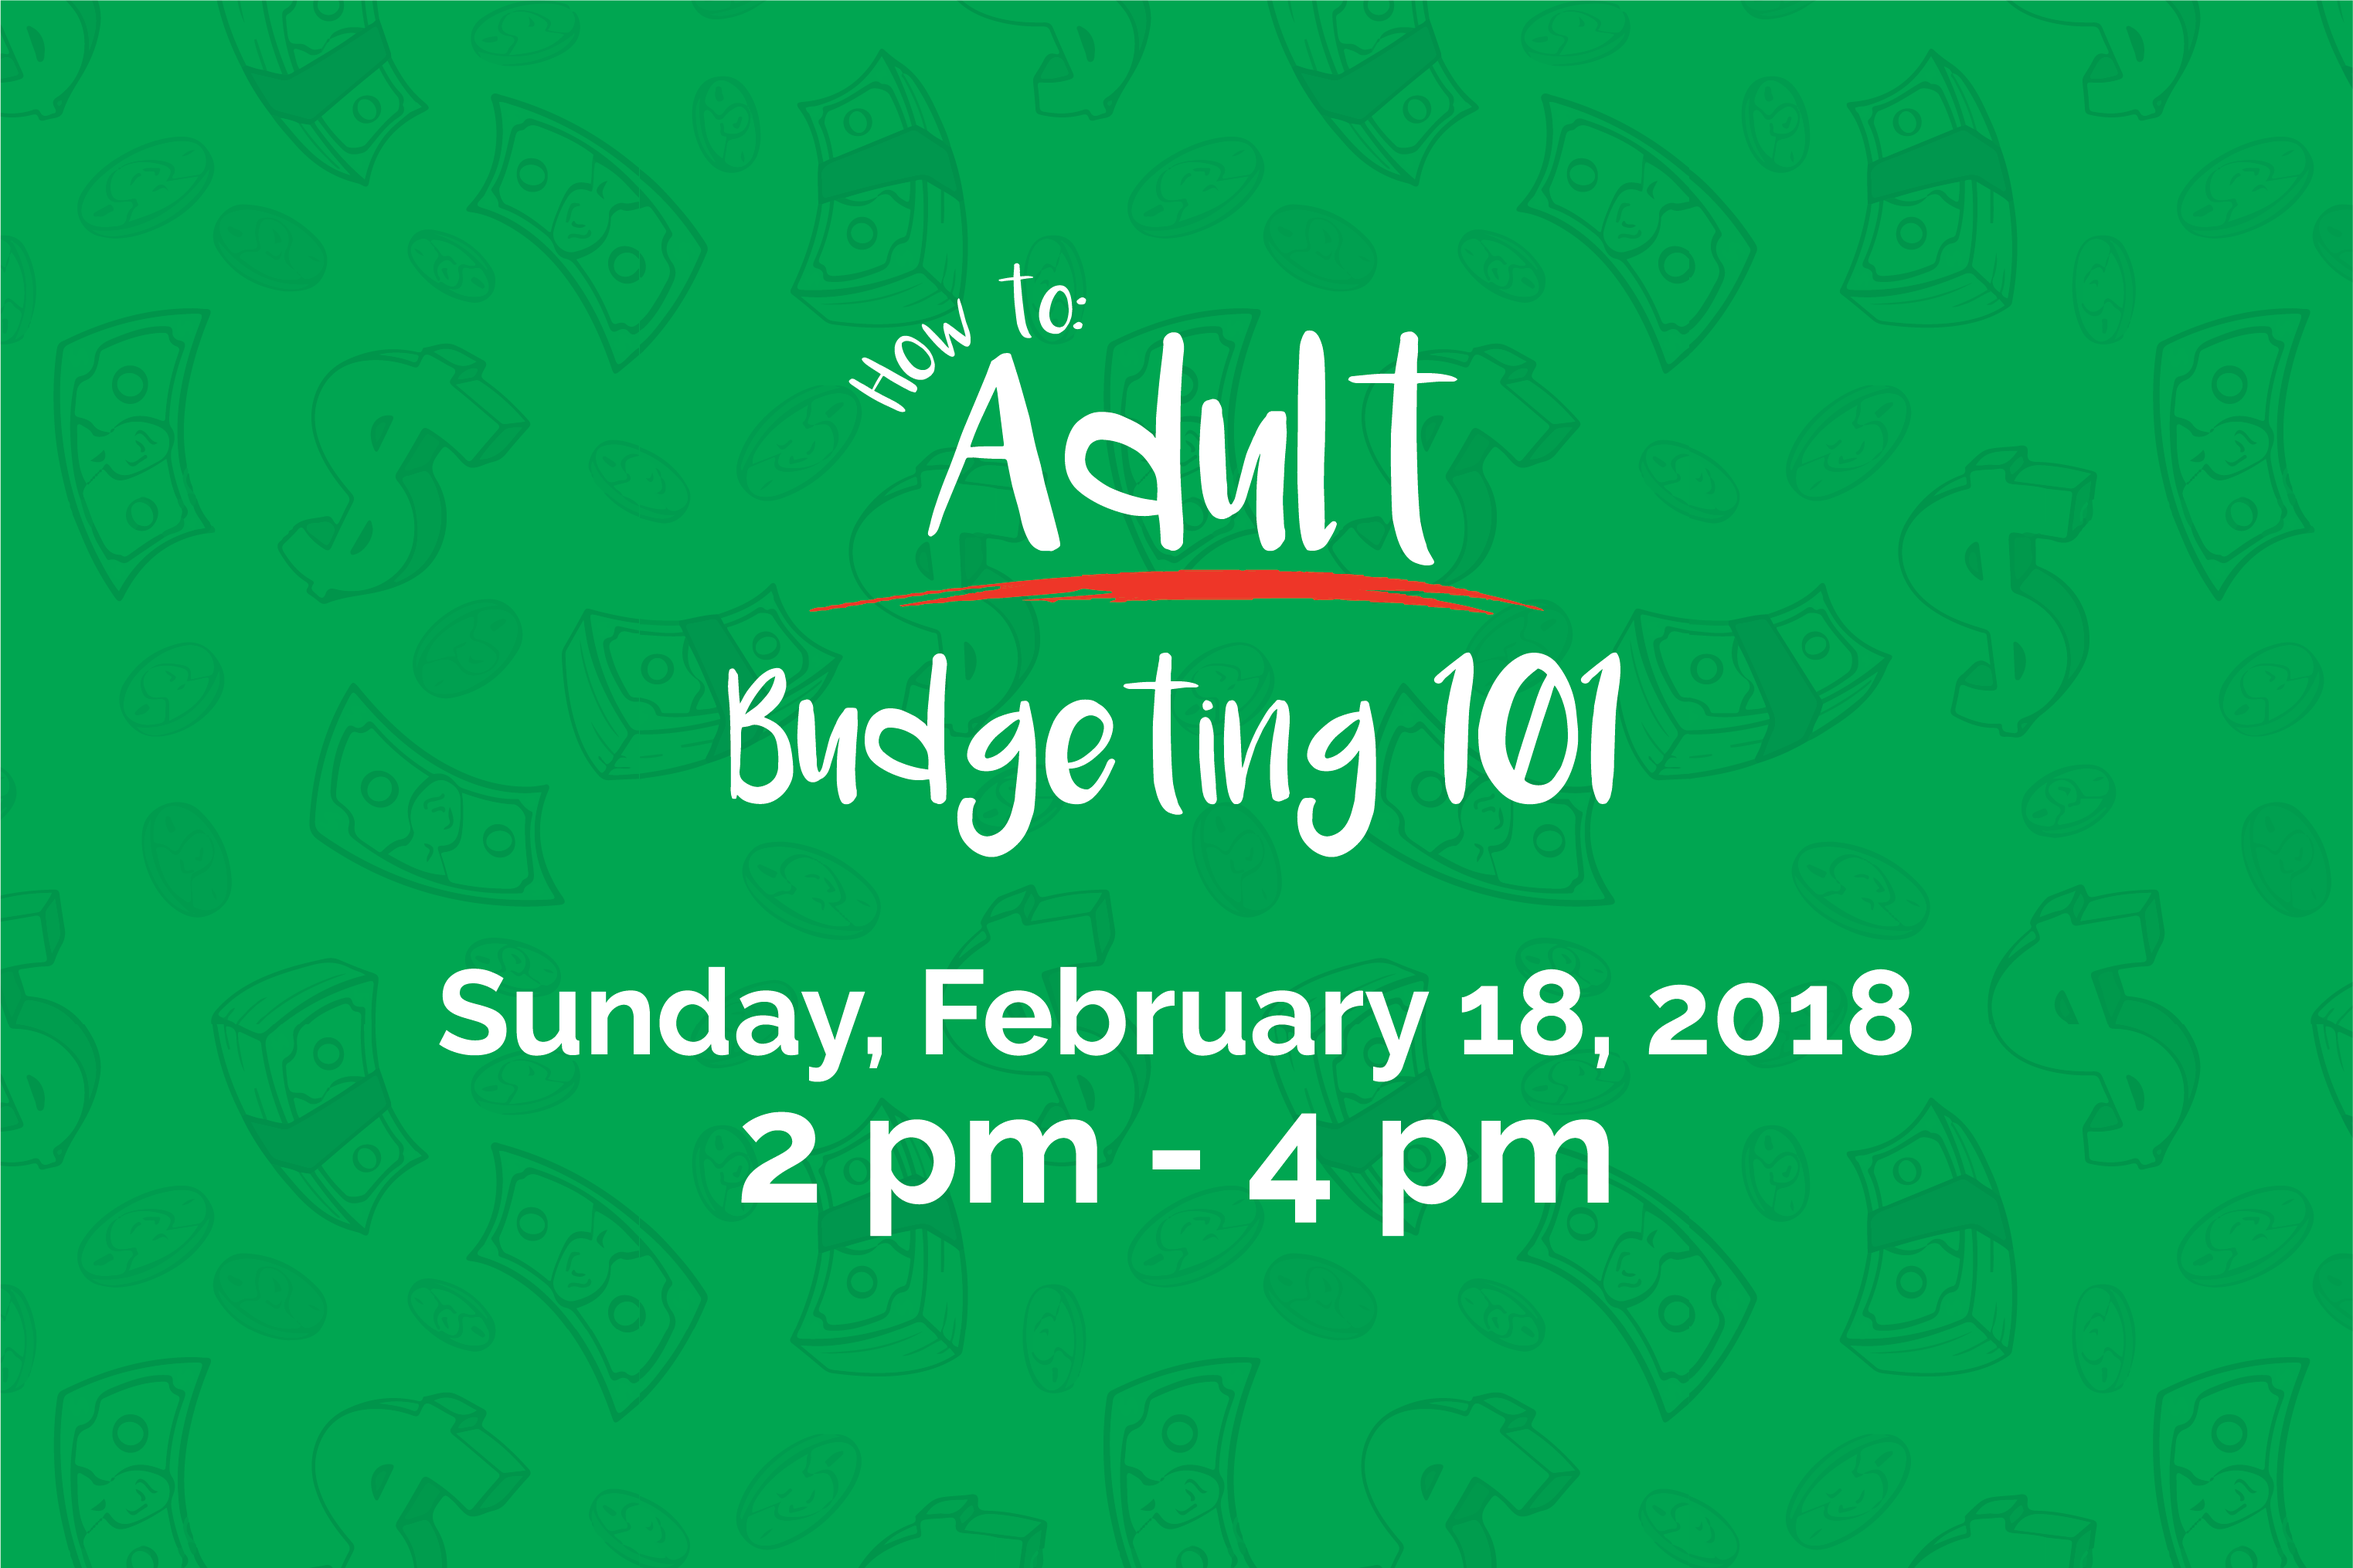
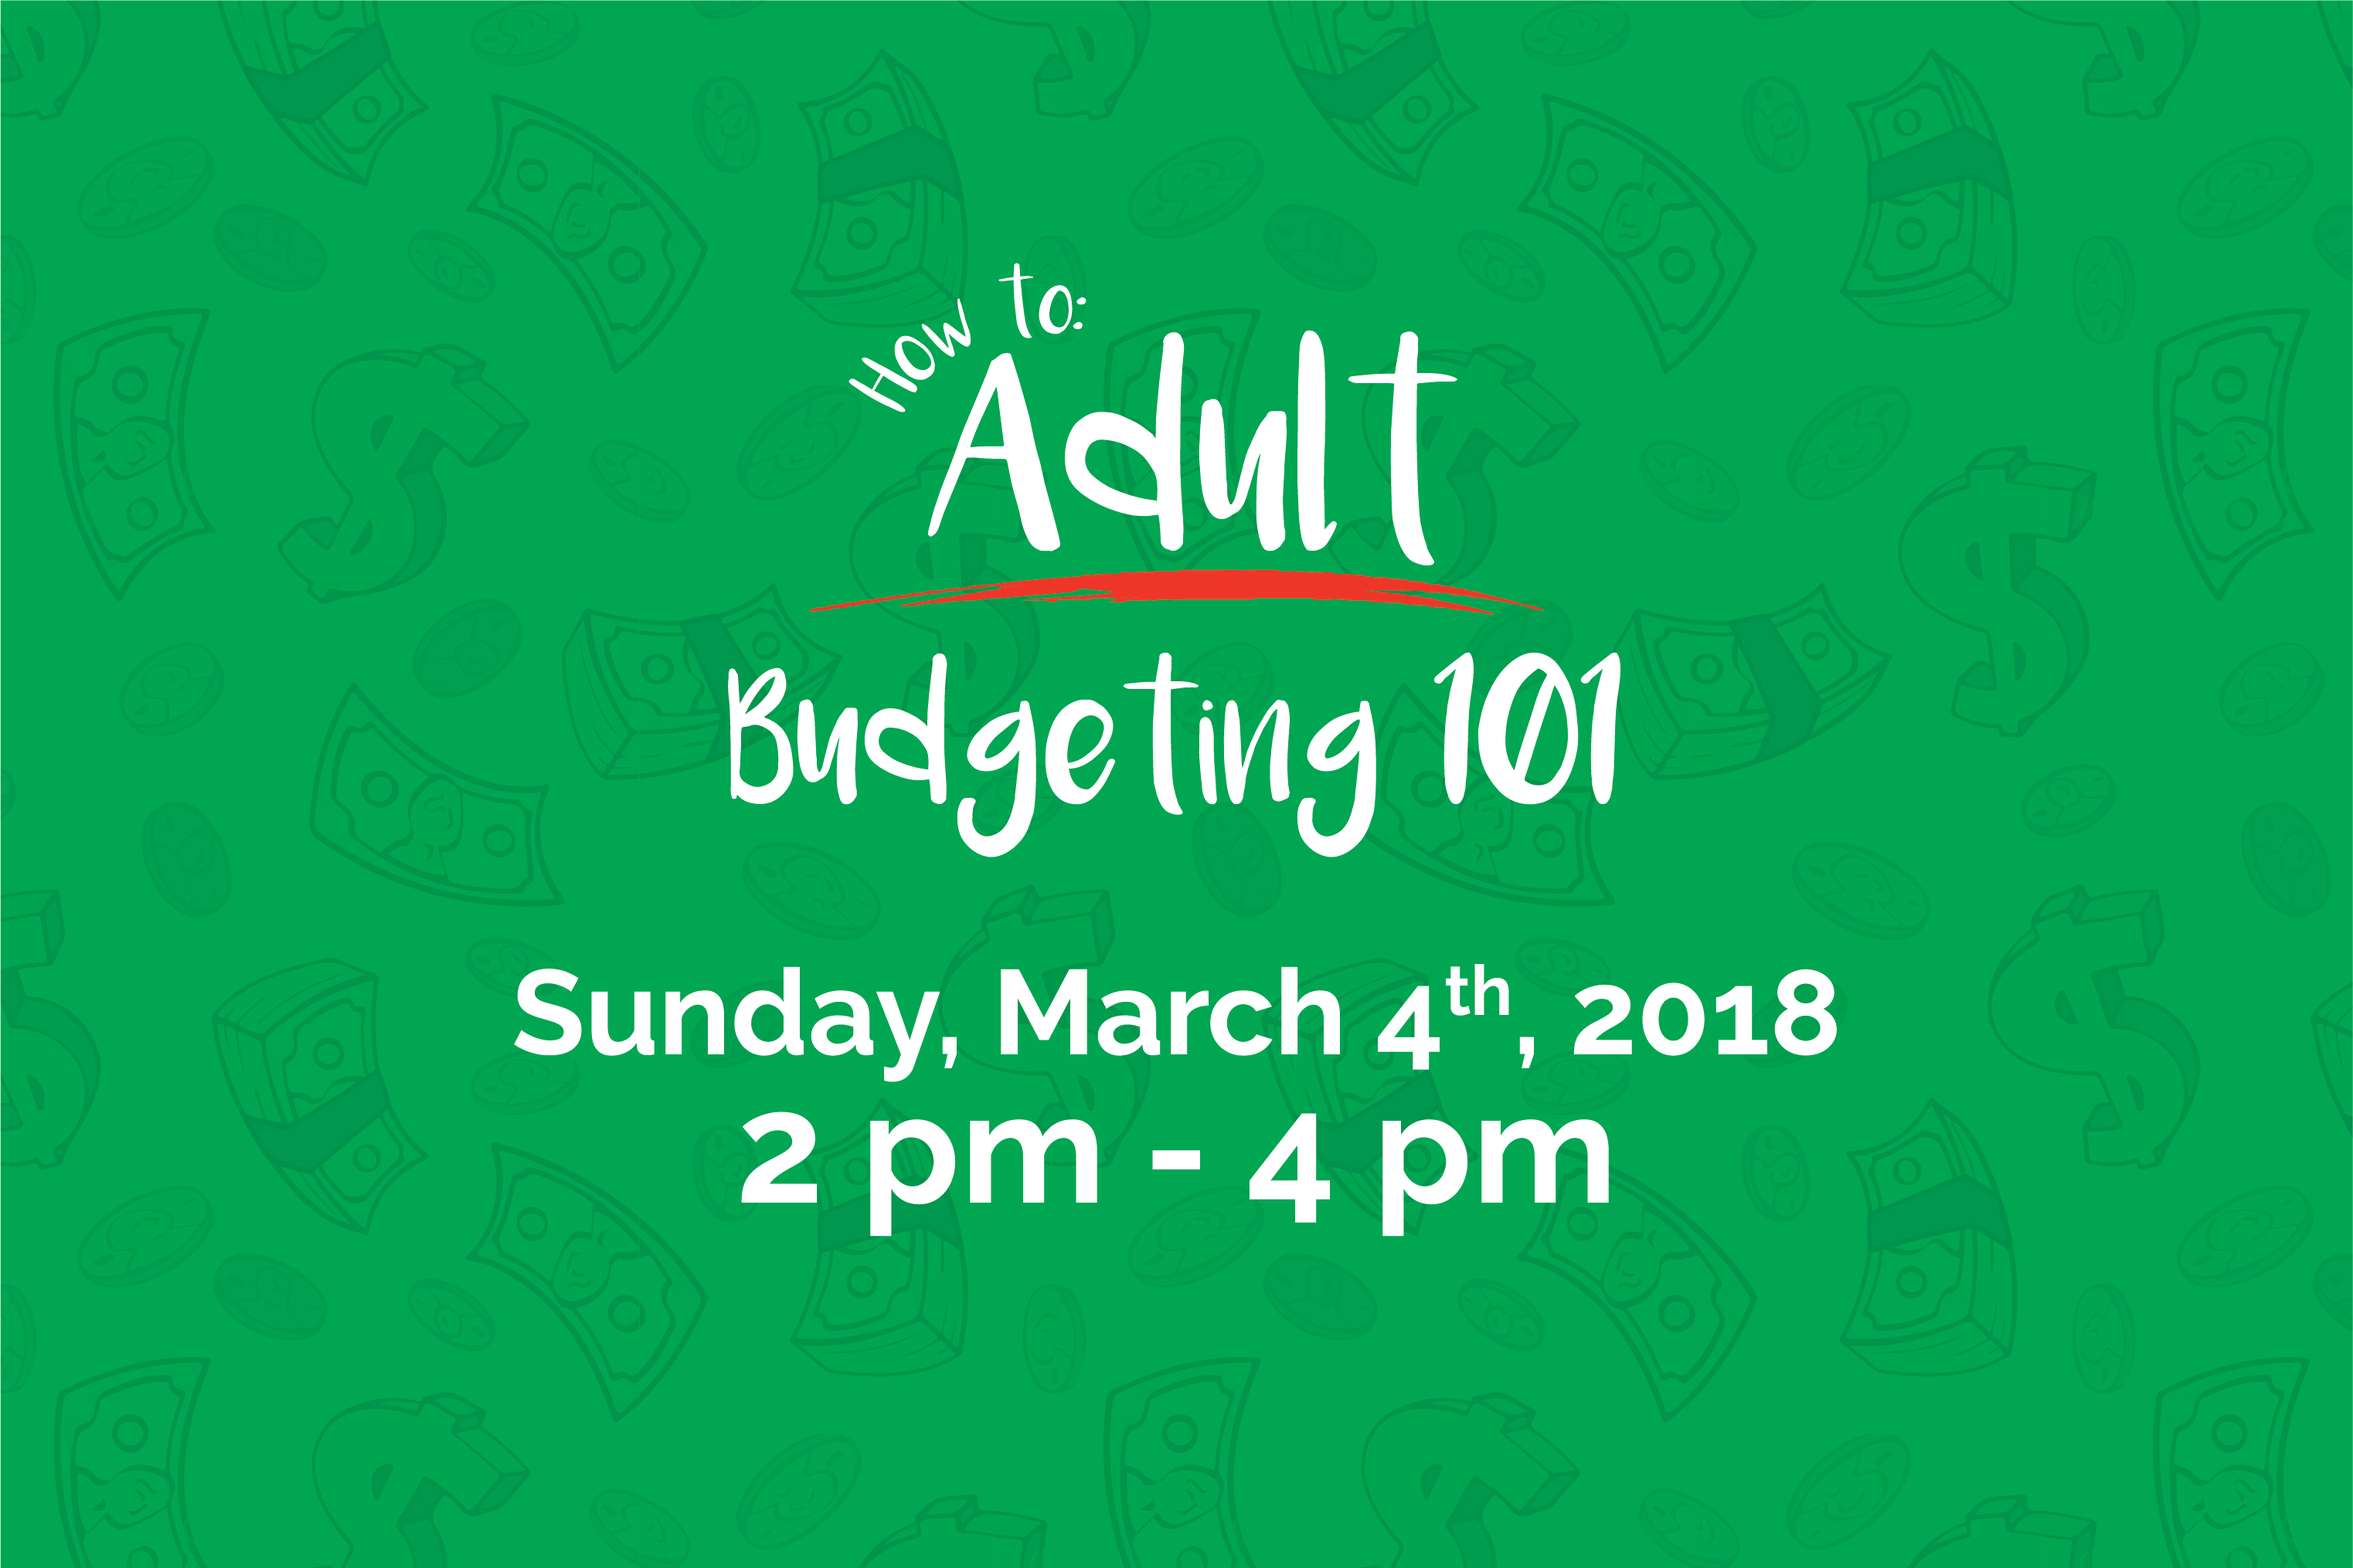
Updated Event

Changed region(s): [[0.1872, 0.6207, 0.8112, 0.6828]]

diff --git a/index.html b/index.html
@@ -164,6 +164,7 @@
 
 		      <div class="description-box">
 		        <h4 style="color: #00a651">Budgeting 101</h4>
+				<h7>March 4th, 2018</h7>
 		        <p>Budgeting lies at the foundation of every financial plan. It doesn’t matter how much money you earn - you need to understand how much money you have, where it goes, and then plan how to best allocate those funds.</p>
 				  
 			  	<p>In this workshop, we'll put pen to paper to build a personal budget and examine different strategies to help us maintain our budget and achieve our financial goals.</p>
@@ -489,7 +490,7 @@
 			 <div class="bgrid member">
 								
 					<div class="member-pic">
-                 	<img src="images/team/generic.png" alt=""/>
+                 	<img src="images/team/annika.png" alt=""/>
                  	<div class="mask"></div>  
                </div>
                <div class="member-name">

diff --git a/css/main.css b/css/main.css
@@ -1475,6 +1475,13 @@ ul#nav li.current a:after {
 .popup-modal .description-box h4 {
 	font: 15px/24px "raleway-heavy", sans-serif;
 	color: #000000;
+	margin-bottom: -7px;
+}
+
+.popup-modal .description-box h7 {
+	margin-top: -7px;
+	font: 13px/24px "raleway-medium", sans-serif;
+	color: #333333;
 }
 
 .popup-modal .description-box p {
